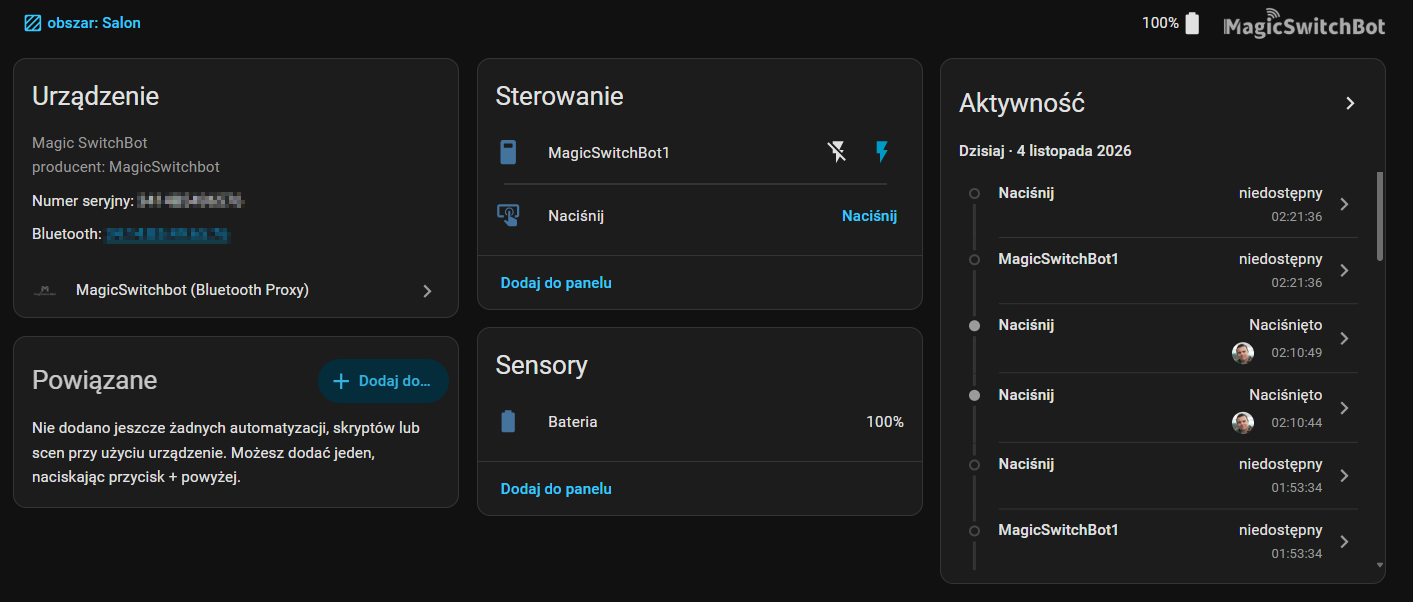
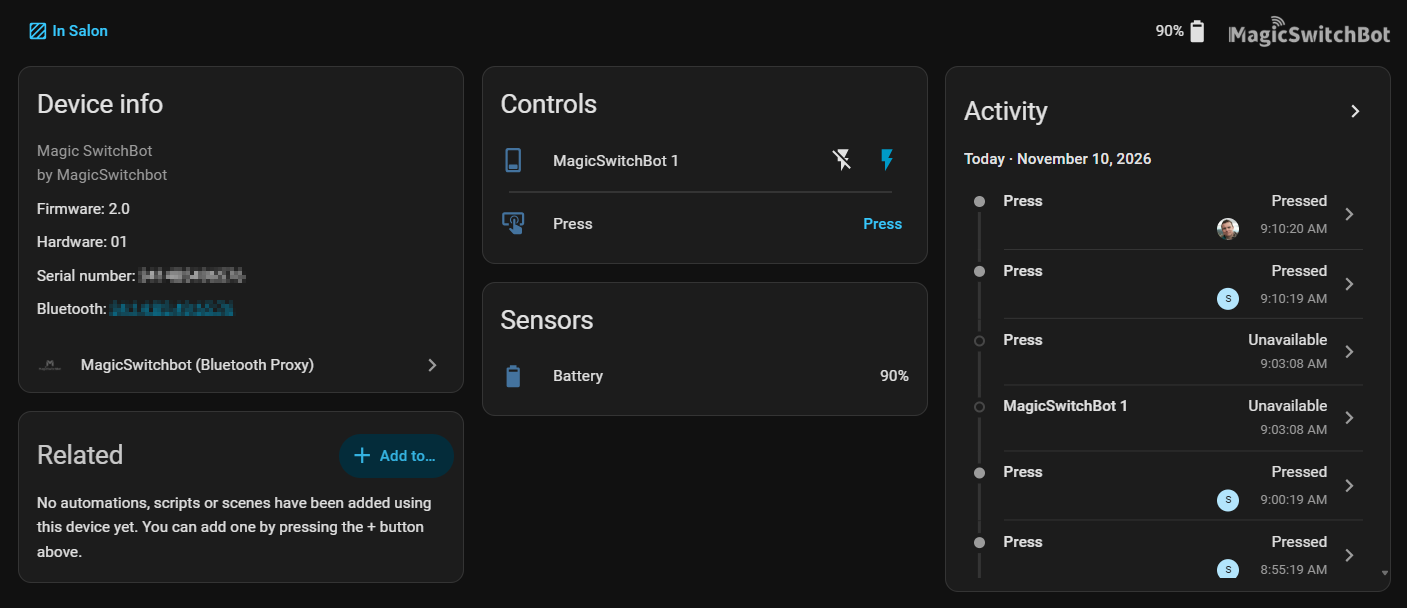
Update installation docs for Marketplace; bump to 3.0.3

diff --git a/README.md b/README.md
@@ -5,21 +5,44 @@ using a local Bluetooth adapter or an ESPHome Bluetooth proxy. It provides
 `switch` and `button` entities, a battery sensor, and an optional RSSI sensor.
 
 <img src="https://raw.githubusercontent.com/mnowok/magicswitchbot_ble/main/docs/screenshot.png"
-     alt="Magic Switchbot device page in Home Assistant" width="700">
+     alt="MagicSwitchbot device page in Home Assistant" width="700">
 
 ## Requirements
 
 - Home Assistant 2026.3 or later
 - **Connectable** Bluetooth, provided by a local BLE adapter or an ESPHome Bluetooth proxy
-- A Magic Switchbot device within Bluetooth range
+- A MagicSwitchbot device within Bluetooth range
 
-## Installation via HACS
+## Limitations
 
-1. In HACS, open **Integrations** and select **⋮ → Custom repositories**.
-2. Enter `https://github.com/mnowok/magicswitchbot_ble` and select **Integration** as the category.
-3. Find **MagicSwitchbot (Bluetooth Proxy)** and select **Download**.
-4. **Restart Home Assistant.**
-5. Go to **Settings → Devices & services → Add integration** and select **MagicSwitchbot**.
+- **Password-protected devices are not supported.** The integration does not yet
+  ask for or send the device password, so commands fail while a password is set.
+  Remove the password in the official MagicSwitchBot app, then add the device to Home Assistant.
+
+## Installation
+
+### Home Assistant 2026.11 or later: Marketplace (recommended)
+
+1. Go to **Settings → Marketplace**.
+2. The first time you open the Marketplace, read the notice and select **I understand the risks and agree**. Browsing works without this, but installing does not.
+3. Search for **MagicSwitchbot (Bluetooth Proxy)** and select **Install**.
+4. The setup flow opens automatically. If it does not, go to **Settings → Devices & services → Add integration** and select **MagicSwitchbot (Bluetooth Proxy)**.
+
+No restart is needed for a new installation. Updates may ask you to restart Home Assistant.
+
+### Home Assistant 2026.10 or earlier: HACS
+
+1. In HACS, open **Integrations**.
+2. Search for **MagicSwitchbot (Bluetooth Proxy)** and select **Download**.
+3. **Restart Home Assistant.**
+4. Go to **Settings → Devices & services → Add integration** and select **MagicSwitchbot**.
+
+### Fallback: custom repository
+
+Use this only if the integration does not appear in the catalog yet.
+
+- **2026.11 or later:** go to **Settings → Marketplace**, select **Add from link**, and enter `https://github.com/mnowok/magicswitchbot_ble`. Approve the GitHub device sign-in, then install **MagicSwitchbot (Bluetooth Proxy)**.
+- **2026.10 or earlier:** in HACS, open **⋮ → Custom repositories**, enter `https://github.com/mnowok/magicswitchbot_ble`, select **Integration** as the category, then download it and restart Home Assistant.
 
 ## Configuration
 
@@ -46,6 +69,7 @@ address in this format: `AA:BB:CC:DD:EE:FF`.
 - **The device does not appear in the list:** Try manual setup. A sleeping device may not be advertising over BLE.
 - **The battery level does not update:** The value comes from BLE advertisements, so it updates when the device advertises again.
 - **Commands do not reach the device:** Check that the Bluetooth proxy is connectable and within range.
+- **Commands fail and the device was working in the official app:** The device may have a password set. The integration does not support passwords yet. Remove the password in the official app and try again.
 
 To enable debug logging:
 
